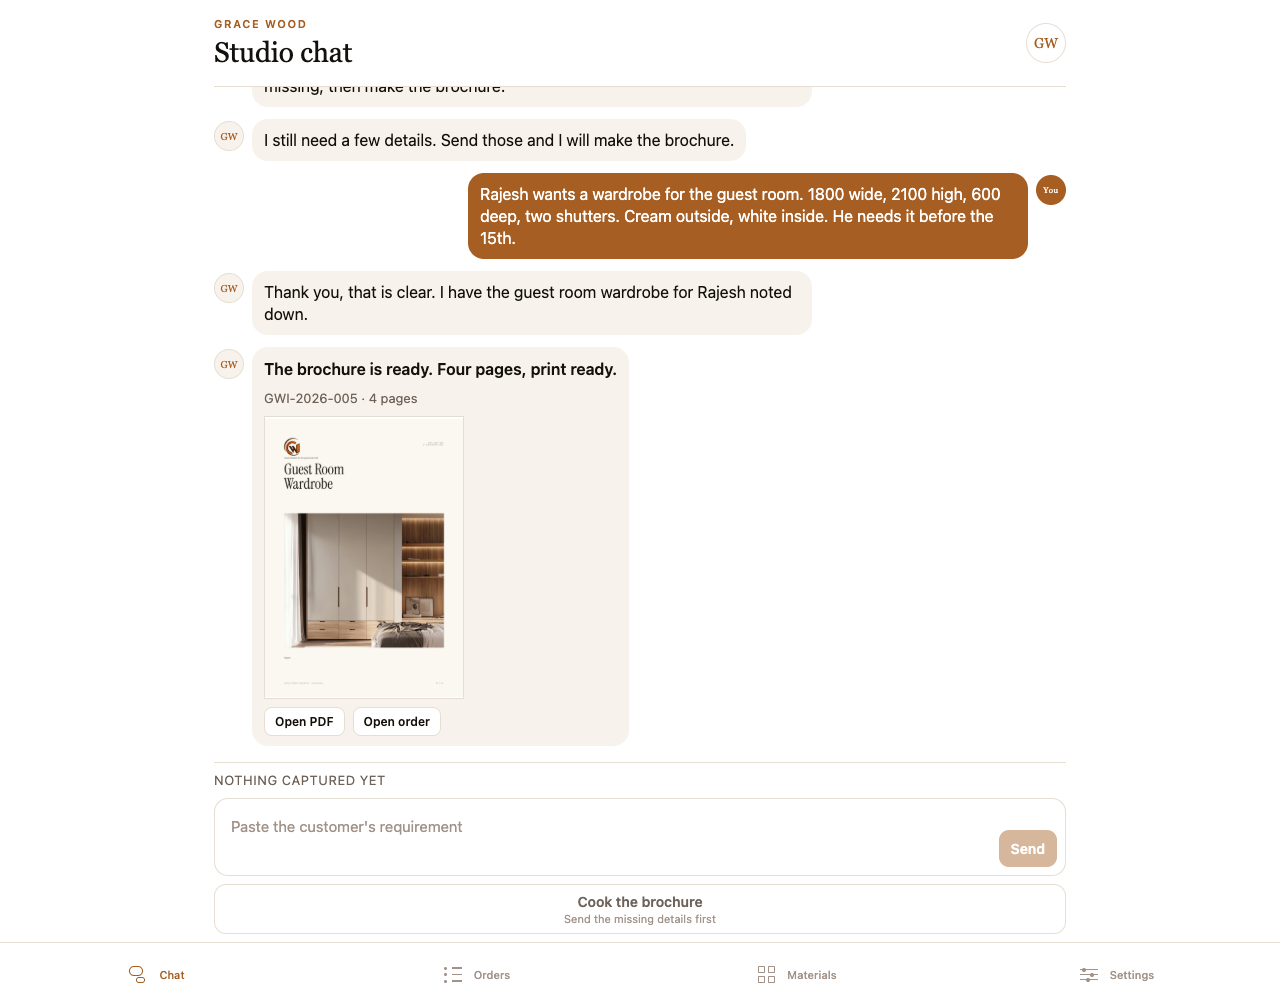
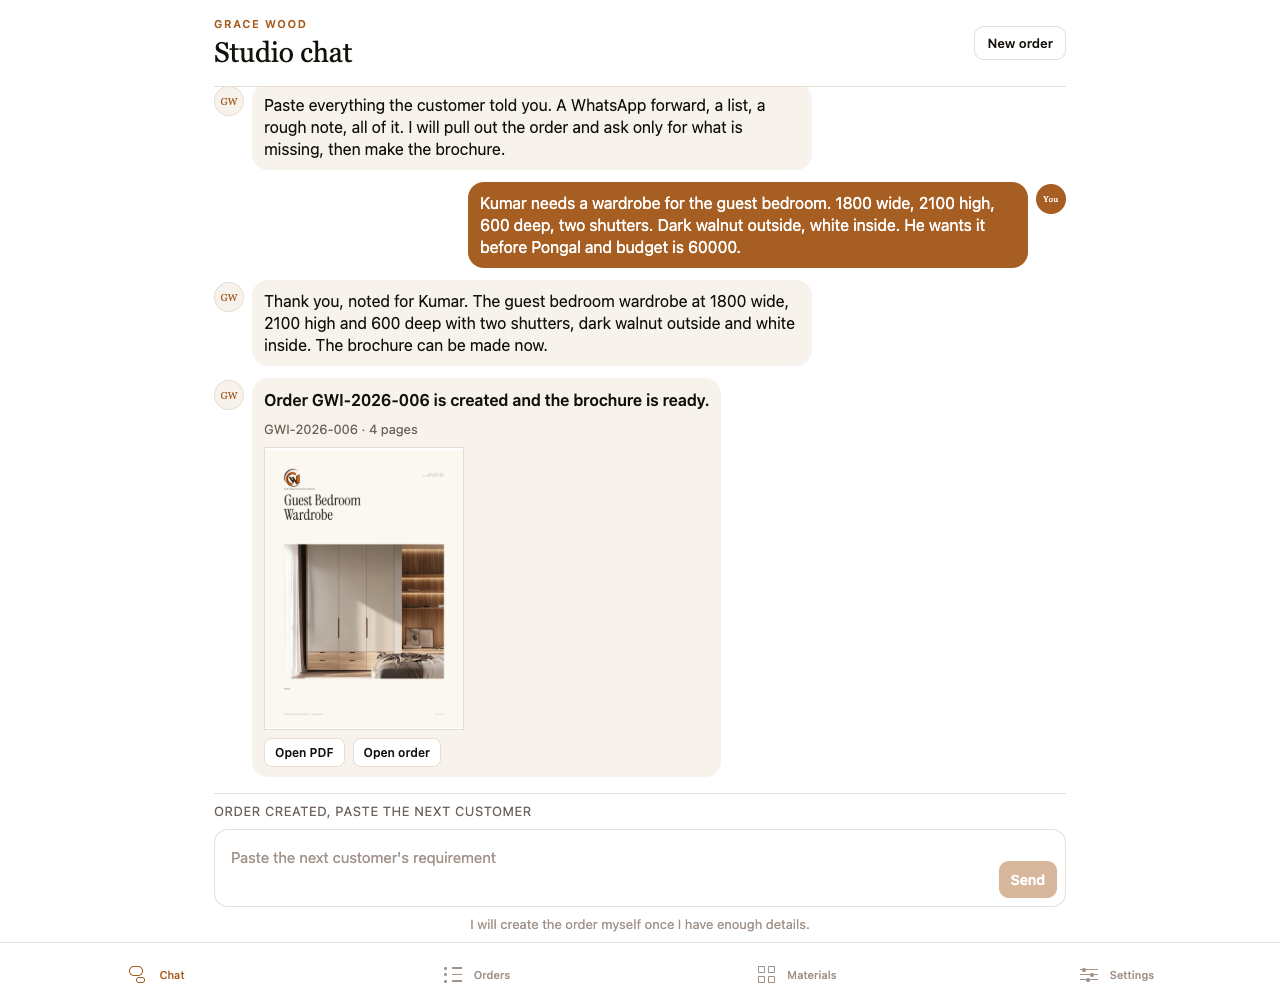
One chat, one order, created without a button
The conversation now creates the order by itself. The assistant keeps asking
until the essentials are in, then the client creates the customer, the order,
the copy and the voucher, and shows the brochure in the chat. The manual cook
button is gone; a retry button only appears if creation fails.

A finished order closes the conversation: the next message starts a clean chat,
and the header offers a new order at any time. Verified live: one message
created GWI-2026-006 with a 97 word body and a four page voucher, and the next
message opened a fresh chat.

Tests: 81 server, 82 browser.

diff --git a/app/app/(tabs)/index.tsx b/app/app/(tabs)/index.tsx
@@ -53,6 +53,8 @@ export default function ChatScreen() {
   const [input, setInput] = useState('');
   const [sending, setSending] = useState(false);
   const [cooking, setCooking] = useState(false);
+  const [orderCreated, setOrderCreated] = useState(false);
+  const [createFailed, setCreateFailed] = useState(false);
 
   useEffect(() => {
     const timer = setTimeout(() => scroll.current?.scrollToEnd({ animated: true }), 80);
@@ -65,11 +67,114 @@ export default function ChatScreen() {
       .map((bubble) => ({ role: bubble.role, content: bubble.content }));
   }, [bubbles]);
 
+  const startNewChat = useCallback(() => {
+    if (sending || cooking) return;
+    setBubbles([{ id: nextId(), role: 'assistant', kind: 'text', content: WELCOME }]);
+    setDraft({});
+    setMissing([]);
+    setReady(false);
+    setOrderCreated(false);
+    setCreateFailed(false);
+    setInput('');
+  }, [cooking, sending]);
+
+  // One chat is one order. As soon as the intake says it has enough, the order
+  // is created, the copy is written and the voucher is rendered.
+  const createOrderFor = useCallback(
+    async (orderDraft: Record<string, string>) => {
+      setCooking(true);
+      setCreateFailed(false);
+      try {
+        const customer = await api.createCustomer({ name: orderDraft.customerName });
+        const order = await api.createOrder({
+          customerId: customer.id,
+          title: orderDraft.title,
+          room: orderDraft.room,
+          width: orderDraft.width,
+          height: orderDraft.height,
+          depth: orderDraft.depth,
+          shutters: orderDraft.shutters,
+          carcass: orderDraft.carcass,
+          backPanel: orderDraft.backPanel,
+          shuttersMat: orderDraft.shuttersMat,
+          drawers: orderDraft.drawers,
+          exterior: orderDraft.exterior,
+          interior: orderDraft.interior,
+          edgeShutter: orderDraft.edgeShutter,
+          edgeCarcass: orderDraft.edgeCarcass,
+          edgeNote: orderDraft.edgeNote,
+          handle: orderDraft.handle,
+          handleNote: orderDraft.handleNote,
+          finishExt: orderDraft.finishExt,
+          finishInt: orderDraft.finishInt,
+        } as Parameters<typeof api.createOrder>[0]);
+
+        const brief =
+          orderDraft.brief ??
+          history()
+            .filter((message) => message.role === 'user')
+            .map((message) => message.content)
+            .join(' ')
+            .slice(0, 2000);
+        await api.generateOrderCopy(order.id, { brief });
+        const render = await api.renderOrder(order.id, 'voucher');
+
+        setBubbles((current) => [
+          ...current,
+          {
+            id: nextId(),
+            role: 'assistant',
+            kind: 'brochure',
+            content: `Order ${order.orderNo} is created and the brochure is ready.`,
+            orderId: order.id,
+            orderNo: order.orderNo,
+            render,
+          },
+        ]);
+        setOrderCreated(true);
+        setDraft({});
+        setMissing([]);
+        setReady(false);
+        setCreateFailed(false);
+      } catch (error) {
+        setCreateFailed(true);
+        setBubbles((current) => [
+          ...current,
+          {
+            id: nextId(),
+            role: 'assistant',
+            kind: 'text',
+            content: errorMessage(error, 'I could not create the order. Try again.'),
+            failed: true,
+          },
+        ]);
+      } finally {
+        setCooking(false);
+      }
+    },
+    [history],
+  );
+
   const send = useCallback(async () => {
     const content = input.trim();
     if (content === '' || sending || cooking) return;
+
+    // A finished order closes the chat. The next message starts a new one, so
+    // one conversation never mixes two orders.
+    const startingFresh = orderCreated;
+    const base: Bubble[] = startingFresh
+      ? [{ id: nextId(), role: 'assistant', kind: 'text', content: WELCOME }]
+      : bubbles;
+    if (startingFresh) {
+      setDraft({});
+      setMissing([]);
+      setReady(false);
+      setOrderCreated(false);
+      setCreateFailed(false);
+    }
+
     const userBubble: Bubble = { id: nextId(), role: 'user', kind: 'text', content };
-    const nextBubbles = [...bubbles, userBubble];
+    const nextBubbles = [...base, userBubble];
     setBubbles(nextBubbles);
     setInput('');
     setSending(true);
@@ -77,7 +182,7 @@ export default function ChatScreen() {
       const messages = nextBubbles
         .filter((bubble) => bubble.kind === 'text')
         .map((bubble) => ({ role: bubble.role, content: bubble.content }));
-      const result = await api.intake(messages, draft);
+      const result = await api.intake(messages, startingFresh ? {} : draft);
       setDraft(result.draft);
       setMissing(result.missing);
       setReady(result.ready);
@@ -85,6 +190,9 @@ export default function ChatScreen() {
         ...current,
         { id: nextId(), role: 'assistant', kind: 'text', content: result.reply },
       ]);
+      if (result.ready) {
+        await createOrderFor(result.draft);
+      }
     } catch (error) {
       setBubbles((current) => [
         ...current,
@@ -99,91 +207,12 @@ export default function ChatScreen() {
     } finally {
       setSending(false);
     }
-  }, [bubbles, cooking, draft, input, sending]);
+  }, [bubbles, cooking, createOrderFor, draft, input, orderCreated, sending]);
 
-  const cook = useCallback(async () => {
-    if (cooking || sending) return;
-    if (!ready) {
-      const list = missing.length > 0 ? missing.join(', ') : 'a few details';
-      setBubbles((current) => [
-        ...current,
-        {
-          id: nextId(),
-          role: 'assistant',
-          kind: 'text',
-          content: `I still need ${list}. Send those and I will make the brochure.`,
-        },
-      ]);
-      return;
-    }
-    setCooking(true);
-    try {
-      const customer = await api.createCustomer({ name: draft.customerName });
-      const order = await api.createOrder({
-        customerId: customer.id,
-        title: draft.title,
-        room: draft.room,
-        width: draft.width,
-        height: draft.height,
-        depth: draft.depth,
-        shutters: draft.shutters,
-        carcass: draft.carcass,
-        backPanel: draft.backPanel,
-        shuttersMat: draft.shuttersMat,
-        drawers: draft.drawers,
-        exterior: draft.exterior,
-        interior: draft.interior,
-        edgeShutter: draft.edgeShutter,
-        edgeCarcass: draft.edgeCarcass,
-        edgeNote: draft.edgeNote,
-        handle: draft.handle,
-        handleNote: draft.handleNote,
-        finishExt: draft.finishExt,
-        finishInt: draft.finishInt,
-      } as Parameters<typeof api.createOrder>[0]);
-
-      const brief =
-        draft.brief ??
-        history()
-          .filter((message) => message.role === 'user')
-          .map((message) => message.content)
-          .join(' ')
-          .slice(0, 2000);
-      await api.generateOrderCopy(order.id, { brief });
-      const render = await api.renderOrder(order.id, 'voucher');
-
-      setBubbles((current) => [
-        ...current,
-        {
-          id: nextId(),
-          role: 'assistant',
-          kind: 'brochure',
-          content: 'The brochure is ready. Four pages, print ready.',
-          orderId: order.id,
-          orderNo: order.orderNo,
-          render,
-        },
-      ]);
-      // Start clean: the next dump belongs to a new order, and a second press
-      // cannot create a duplicate by accident.
-      setDraft({});
-      setMissing([]);
-      setReady(false);
-    } catch (error) {
-      setBubbles((current) => [
-        ...current,
-        {
-          id: nextId(),
-          role: 'assistant',
-          kind: 'text',
-          content: errorMessage(error, 'The brochure could not be made. Try again.'),
-          failed: true,
-        },
-      ]);
-    } finally {
-      setCooking(false);
-    }
-  }, [cooking, draft, history, missing, ready, sending]);
+  const retryCreate = useCallback(async () => {
+    if (cooking || sending || !createFailed) return;
+    await createOrderFor(draft);
+  }, [cooking, createFailed, createOrderFor, draft, sending]);
 
   const fieldCount = Object.keys(draft).length;
   const busy = sending || cooking;
@@ -199,9 +228,19 @@ export default function ChatScreen() {
             <Text style={text.eyebrow}>Grace Wood</Text>
             <Text style={[text.screenTitle, styles.title]}>Studio chat</Text>
           </View>
-          <View style={styles.headerMark}>
-            <Text style={styles.headerMarkText}>GW</Text>
-          </View>
+          {bubbles.length > 1 || orderCreated ? (
+            <Pressable
+              accessibilityRole="button"
+              accessibilityLabel="New order chat"
+              onPress={startNewChat}
+              style={({ pressed }) => [styles.headerAction, pressed && styles.sendPressed]}>
+              <Text style={styles.headerActionLabel}>New order</Text>
+            </Pressable>
+          ) : (
+            <View style={styles.headerMark}>
+              <Text style={styles.headerMarkText}>GW</Text>
+            </View>
+          )}
         </View>
 
         <View style={[styles.rule]} />
@@ -222,7 +261,7 @@ export default function ChatScreen() {
                 <View style={styles.typing}>
                   <ActivityIndicator size="small" color={colors.copper} />
                   <Text style={[text.caption, styles.typingText]}>
-                    {cooking ? 'Making the brochure' : 'Reading'}
+                    {cooking ? 'Creating the order' : 'Reading'}
                   </Text>
                 </View>
               </View>
@@ -233,7 +272,11 @@ export default function ChatScreen() {
         <View style={[styles.draftBar, { paddingBottom: Math.max(insets.bottom, space.sm) }]}>
           <View style={styles.draftInfo}>
             <Text style={[text.caption, styles.draftCount]}>
-              {fieldCount === 0 ? 'Nothing captured yet' : `${fieldCount} details captured`}
+              {orderCreated
+                ? 'Order created, paste the next customer'
+                : fieldCount === 0
+                  ? 'Nothing captured yet'
+                  : `${fieldCount} details captured`}
             </Text>
             {missing.length > 0 && fieldCount > 0 ? (
               <Text style={[text.caption, styles.draftMissing]} numberOfLines={1}>
@@ -249,7 +292,7 @@ export default function ChatScreen() {
             <TextInput
               value={input}
               onChangeText={setInput}
-              placeholder="Paste the customer's requirement"
+              placeholder={orderCreated ? "Paste the next customer's requirement" : "Paste the customer's requirement"}
               placeholderTextColor={colors.faint}
               multiline
               style={styles.input}
@@ -270,28 +313,30 @@ export default function ChatScreen() {
             </Pressable>
           </View>
 
-          <Pressable
-            accessibilityRole="button"
-            accessibilityLabel="Cook the brochure"
-            onPress={() => void cook()}
-            disabled={busy}
-            style={({ pressed }) => [
-              styles.cook,
-              ready ? styles.cookReady : styles.cookIdle,
-              busy && styles.sendDisabled,
-              pressed && styles.sendPressed,
-            ]}>
-            <Text style={[styles.cookLabel, ready ? styles.cookLabelReady : null]}>
-              Cook the brochure
-            </Text>
-            <Text style={[styles.cookHint, ready ? styles.cookHintReady : null]}>
+          {createFailed ? (
+            <Pressable
+              accessibilityRole="button"
+              accessibilityLabel="Create the order"
+              onPress={() => void retryCreate()}
+              disabled={busy}
+              style={({ pressed }) => [
+                styles.cook,
+                styles.cookReady,
+                busy && styles.sendDisabled,
+                pressed && styles.sendPressed,
+              ]}>
+              <Text style={[styles.cookLabel, styles.cookLabelReady]}>Create the order</Text>
+              <Text style={[styles.cookHint, styles.cookHintReady]}>
+                The details are enough, the last attempt failed
+              </Text>
+            </Pressable>
+          ) : (
+            <Text style={[text.caption, styles.autoHint]}>
               {ready
-                ? 'Creates the order, writes the copy and renders the voucher'
-                : fieldCount === 0
-                  ? 'Paste a requirement first'
-                  : 'Send the missing details first'}
+                ? 'Creating the order now'
+                : 'I will create the order myself once I have enough details.'}
             </Text>
-          </Pressable>
+          )}
         </View>
       </View>
     </KeyboardAvoidingView>
@@ -393,6 +438,22 @@ const styles = StyleSheet.create({
   },
   title: {
     marginTop: space.xs,
+  },
+  headerAction: {
+    borderWidth: StyleSheet.hairlineWidth,
+    borderColor: colors.hair,
+    borderRadius: 10,
+    paddingHorizontal: space.md,
+    paddingVertical: 8,
+  },
+  headerActionLabel: {
+    fontSize: 13,
+    fontWeight: '600',
+    color: colors.ink,
+  },
+  autoHint: {
+    color: colors.faint,
+    textAlign: 'center',
   },
   headerMark: {
     width: 40,

diff --git a/README.md b/README.md
@@ -35,7 +35,9 @@ The studio opens on a chat, not a form. The client dumps everything they know in
 
 ![Conversational intake](docs/screenshots/chat-intake.png)
 
-Press **Cook the brochure** and the studio creates the order, writes the copy with the same model, renders the voucher and shows the first page in the conversation, with Open PDF and Open order.
+The assistant keeps asking until it has enough: customer, piece, room, width, height, depth, shutters. Then it creates the order by itself, writes the copy with the same model, renders the voucher and shows the first page in the conversation, with Open PDF and Open order. Nothing is pressed to make that happen.
+
+One chat is one order. Once the brochure is in the conversation, the next message starts a clean chat for the next customer, and the header button starts a new order at any time.
 
 ![Brochure from the chat](docs/screenshots/chat-brochure.png)
 
